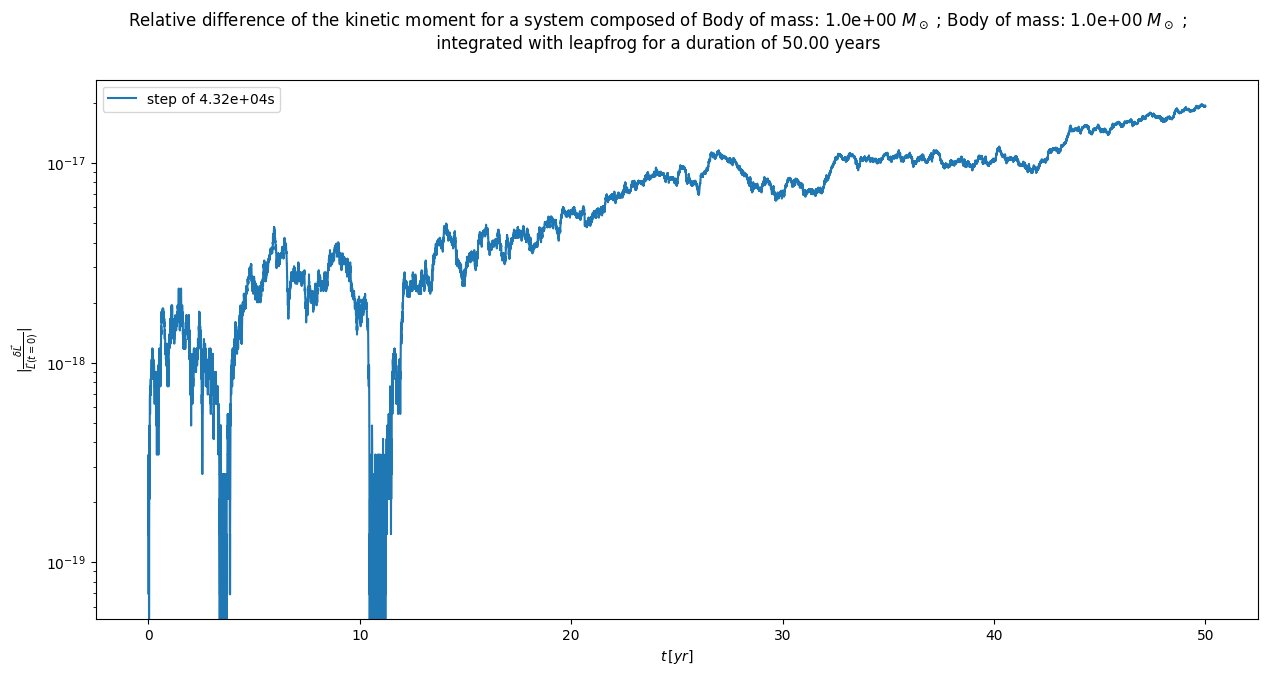
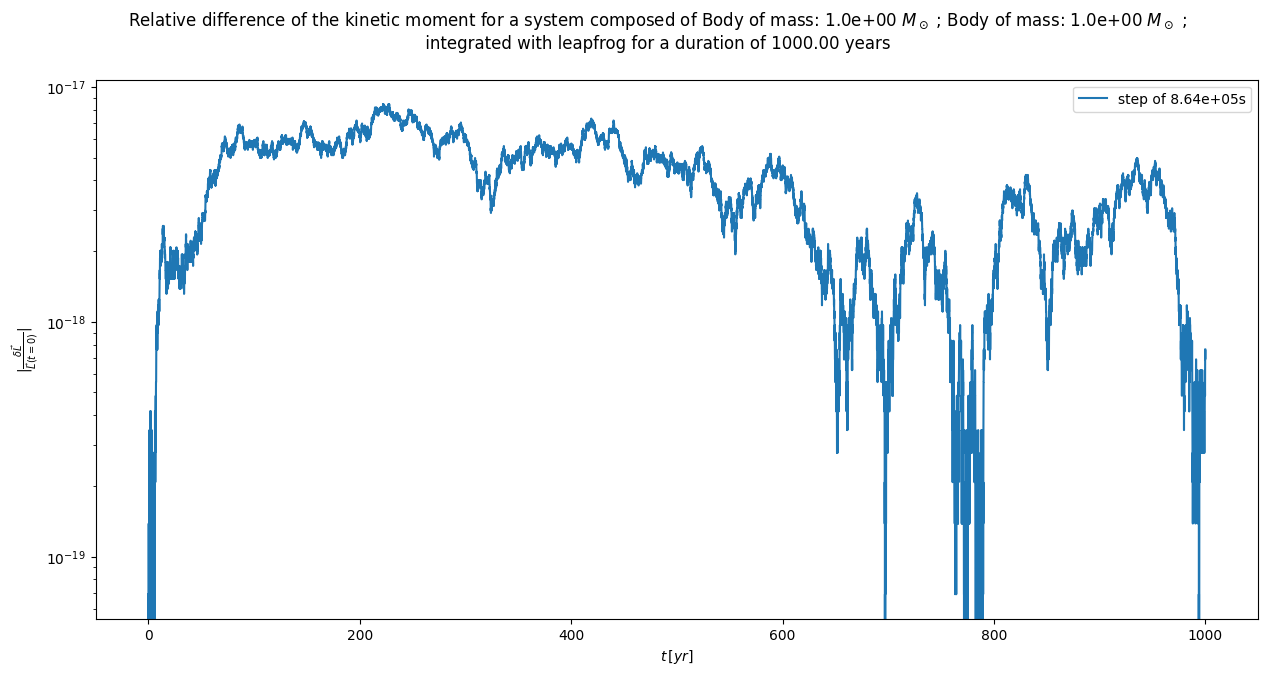
Finally get correct formula for Energy, Semi Major Axis and Eccentricity

diff --git a/lib/objects.py b/lib/objects.py
@@ -24,10 +24,10 @@ class Body:
         self.vp = np.zeros(3,dtype=np.longdouble)
 
     def __repr__(self): # Called upon "print(body)"
-        return r"Body of mass: {0:.1e} $M_\odot$, position: {1}, velocity: {2}".format(self.m, self.q, self.v)
+        return r"Body of mass: {0:.1e} $M_\odot$, position: {1}, velocity: {2}".format(self.m/Ms, self.q, self.v)
 
     def __str__(self): # Called upon "str(body)"
-        return r"Body of mass: {0:.1e} $M_\odot$".format(self.m)
+        return r"Body of mass: {0:.1e} $M_\odot$".format(self.m/Ms)
 
     @property
     def p(self):
@@ -150,7 +150,7 @@ class System(Body):
             for otherbody in self.bodylist:
                 if body != otherbody:
                     rij = np.linalg.norm(body.q-otherbody.q)
-                    W = W - Ga*body.m*otherbody.m/rij
+                    W = W - Ga*otherbody.m/(body.m+otherbody.m)*body.m**2/rij
         E = T + W
         return E
 
@@ -171,7 +171,7 @@ class System(Body):
             for otherbody in self.bodylist:
                 if body != otherbody:
                     rij = np.linalg.norm(body.q-otherbody.q)
-                    W = W - Ga*body.m*otherbody.m/rij
+                    W = W - Ga*otherbody.m/(body.m+otherbody.m)*body.m**2/rij
         E = T + W
         return E
 
@@ -185,7 +185,7 @@ class System(Body):
     @property
     def eccCOM(self): #exentricity of two body sub system
         if len(self.bodylist) == 2 :
-            ecc = (2.*self.ECOM*(np.linalg.norm(self.LCOM)**2))/((Ga**2)*(self.M**2)*(self.mu**3)) + 1.
+            ecc = (2.*self.ECOM*(np.linalg.norm(self.LCOM)**2))/(Ga**2*self.M**2*self.mu**3) + 1.
         else :
             ecc = np.nan
         return ecc
@@ -193,7 +193,7 @@ class System(Body):
     @property
     def smaCOM(self): #semi major axis of two body sub system
         if len(self.bodylist) == 2 :
-            sma = -Ga*self.M*self.mu/(2.*self.ECOM)
+            sma = -Ga*self.mu*self.bodylist[0].m/(2.*self.ECOM)
         else :
             sma = np.nan
         return sma
@@ -201,7 +201,7 @@ class System(Body):
     @property
     def ecc(self): #exentricity of two body sub system
         if len(self.bodylist) == 2 :
-            ecc = (2.*self.EBIN*(np.linalg.norm(self.LBIN)**2))/((Ga**2)*(self.M**2)*(self.mu**3)) + 1.
+            ecc = (2.*self.EBIN*(np.linalg.norm(self.LBIN)**2))/(Ga**2*self.M**2*self.mu**3) + 1.
         else :
             ecc = np.nan
         return ecc
@@ -209,7 +209,7 @@ class System(Body):
     @property
     def sma(self): #semi major axis of two body sub system
         if len(self.bodylist) == 2 :
-            sma = -Ga*self.M*self.mu/(2.*self.EBIN)
+            sma = -Ga*self.mu*self.bodylist[0].m/(2.*self.EBIN)
         else :
             sma = np.nan
         return sma

diff --git a/main.py b/main.py
@@ -12,7 +12,7 @@ from lib.units import *
 def main():
     #initialisation
     m = np.array([1., 1., 1e-1],dtype=np.longdouble)*Ms#/Ms  # Masses in Solar mass
-    a = np.array([1., 1., 10.],dtype=np.longdouble)*au#/au   # Semi-major axis in astronomical units
+    a = np.array([0.75, 0.75, 5.],dtype=np.longdouble)*au#/au   # Semi-major axis in astronomical units
     e = np.array([0., 0., 0.25],dtype=np.longdouble)   # Eccentricity
     psi = np.array([0., 0., 80.],dtype=np.longdouble)*np.pi/180.    # Inclination of the orbital plane in degrees
 
@@ -27,7 +27,7 @@ def main():
     v = np.array([v1, v2, v3],dtype=np.longdouble)
 
     #integration parameters
-    duration, step = 500*yr, np.array([30./1.*86400.],dtype=np.longdouble) #integration time and step in seconds
+    duration, step = 5000*yr, np.array([30./1.*86400.],dtype=np.longdouble) #integration time and step in seconds
     step = np.sort(step)[::-1]
     integrator = "leapfrog"
     n_bodies = 3
